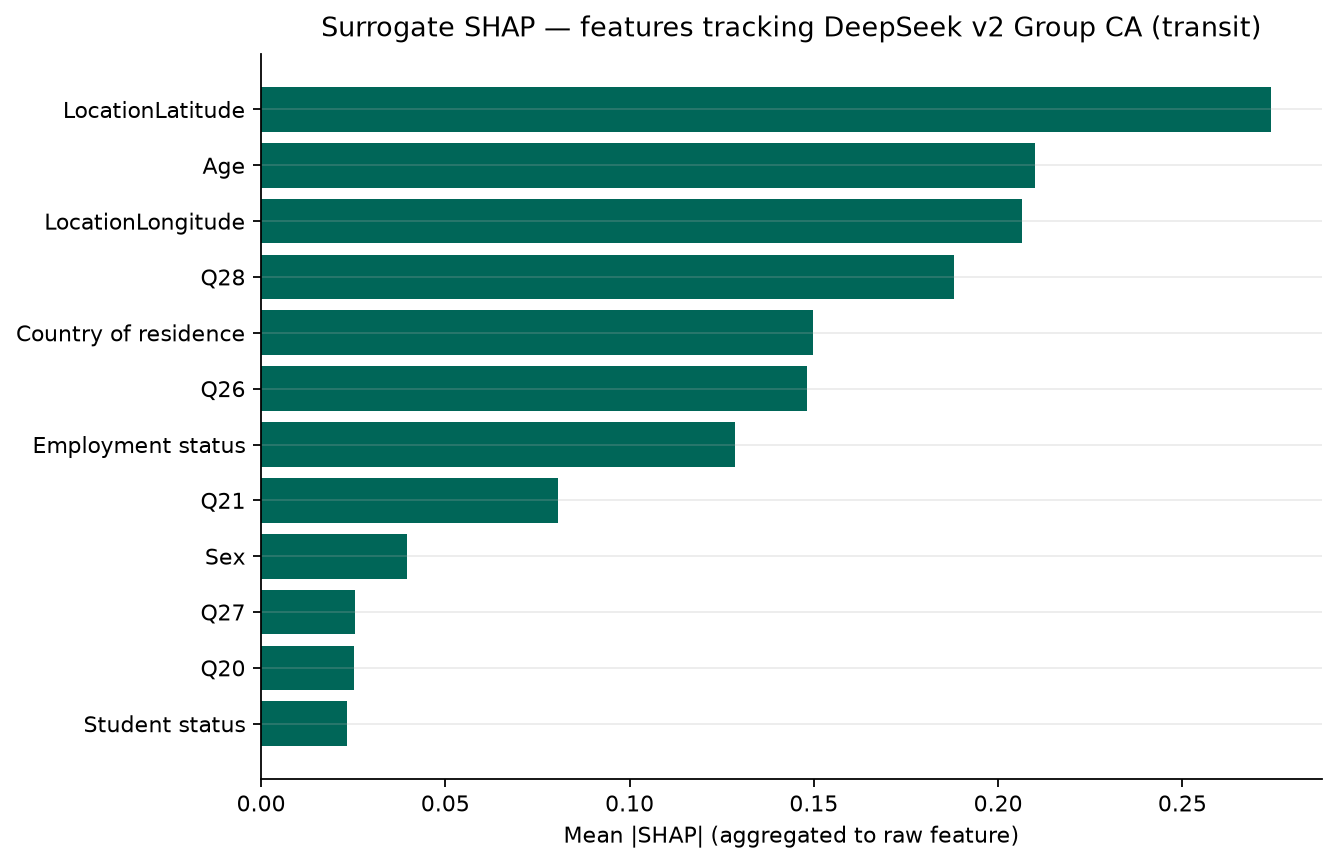
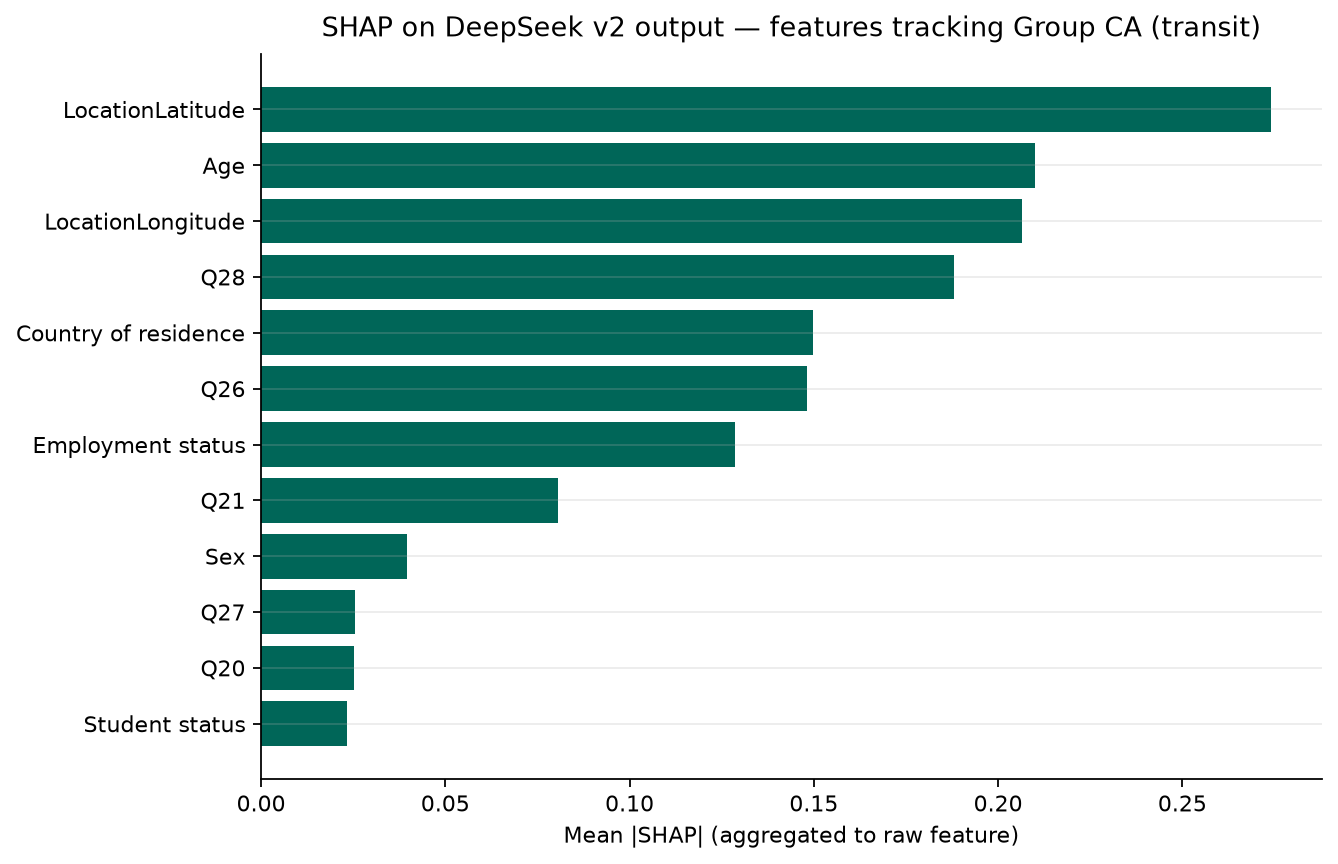
Updates

Changed region(s): [[0.2451, 0.0, 0.7661, 0.0625], [0.8886, 0.0312, 0.9193, 0.0625], [0.7967, 0.0312, 0.8274, 0.0625]]

diff --git a/src/ca_personas/shap_eval.py b/src/ca_personas/shap_eval.py
@@ -649,8 +649,10 @@ def plot_ml_vs_llm_shap_compare(
     *,
     path: Path,
     top_n: int = 10,
+    llm_label: str = "LLM output (real vLLM)",
+    title: str | None = None,
 ) -> Path:
-    """Side-by-side mean |SHAP| for ML target model vs LLM surrogate."""
+    """Side-by-side mean |SHAP| for ML target model vs LLM output attribution."""
     ml = ml_raw.set_index("raw_feature")["mean_abs_shap"]
     ll = llm_raw.set_index("raw_feature")["mean_abs_shap"]
     features = list(
@@ -668,7 +670,7 @@ def plot_ml_vs_llm_shap_compare(
         y + 0.18,
         [ll.get(f, 0.0) for f in features],
         0.35,
-        label="Surrogate of LLM output",
+        label=llm_label,
         color=PALETTE["llm"],
     )
     ax.set_yticks(y)
@@ -676,7 +678,7 @@ def plot_ml_vs_llm_shap_compare(
     ax.legend(frameon=False)
     _style_axes(
         ax,
-        "Feature importance: ML (true CA) vs LLM-surrogate SHAP",
+        title or "Feature importance: ML (true CA) vs LLM output attribution",
         xlabel="Mean |SHAP|",
     )
     fig.tight_layout()

diff --git a/scripts/regenerate_ml_vs_llm_shap.py b/scripts/regenerate_ml_vs_llm_shap.py
@@ -526,7 +526,7 @@ def main() -> None:
     )
     figure_paths["shap_bar_llm_group"] = plot_shap_bar(
         llm_shap_group["raw_importance"],
-        title=f"Surrogate SHAP — features tracking {PRIMARY_LLM} Group CA ({args.tier})",
+        title=f"SHAP on {PRIMARY_LLM} output — features tracking Group CA ({args.tier})",
         path=fig_dir / "fig_shap_bar_llm_surrogate_group.png",
         color=PALETTE["llm"],
     )
@@ -534,6 +534,11 @@ def main() -> None:
         ml_shap["gt_group_ca"]["raw_importance"],
         llm_shap_group["raw_importance"],
         path=fig_dir / "fig_shap_ml_vs_llm_compare.png",
+        llm_label=f"{PRIMARY_LLM} output (real vLLM)",
+        title=(
+            f"Feature importance: ML (true CA) vs {PRIMARY_LLM} output "
+            f"attribution ({args.tier} tier)"
+        ),
     )
     figure_paths["f1_heatmap"] = plot_f1_heatmap(
         all_metrics,
